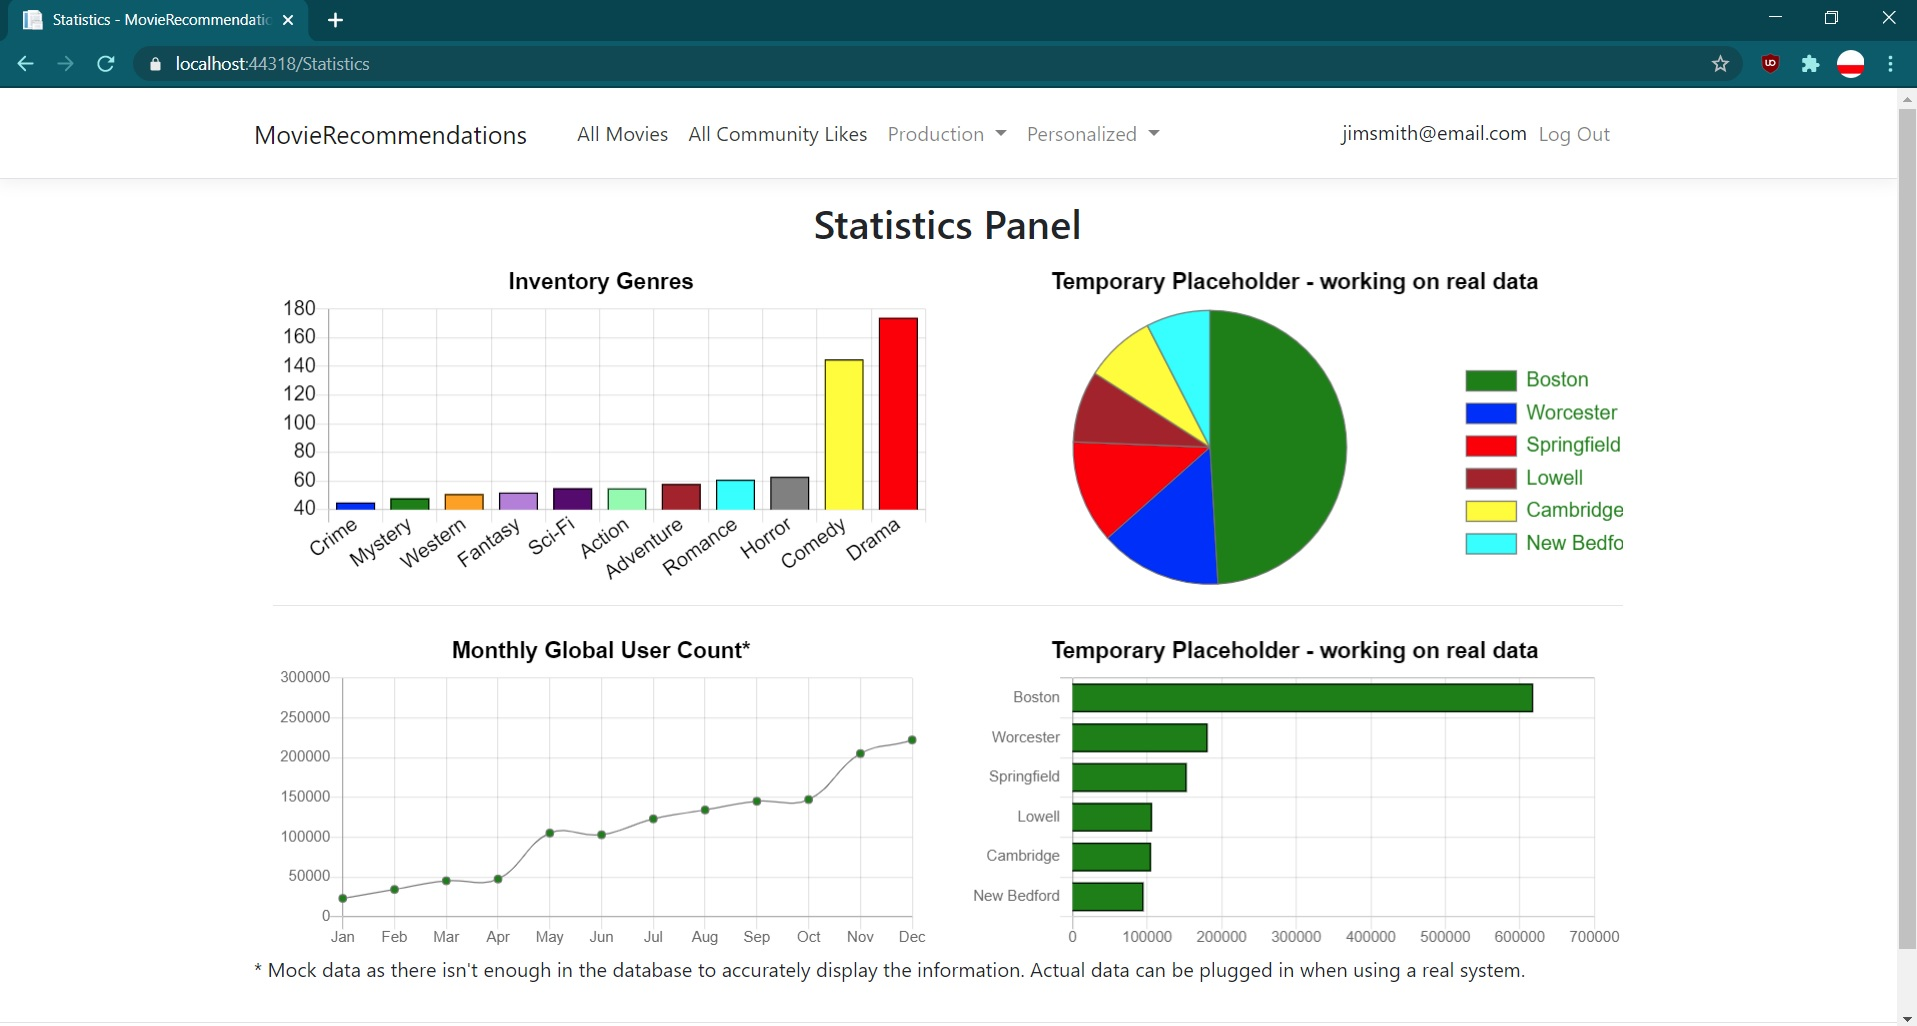
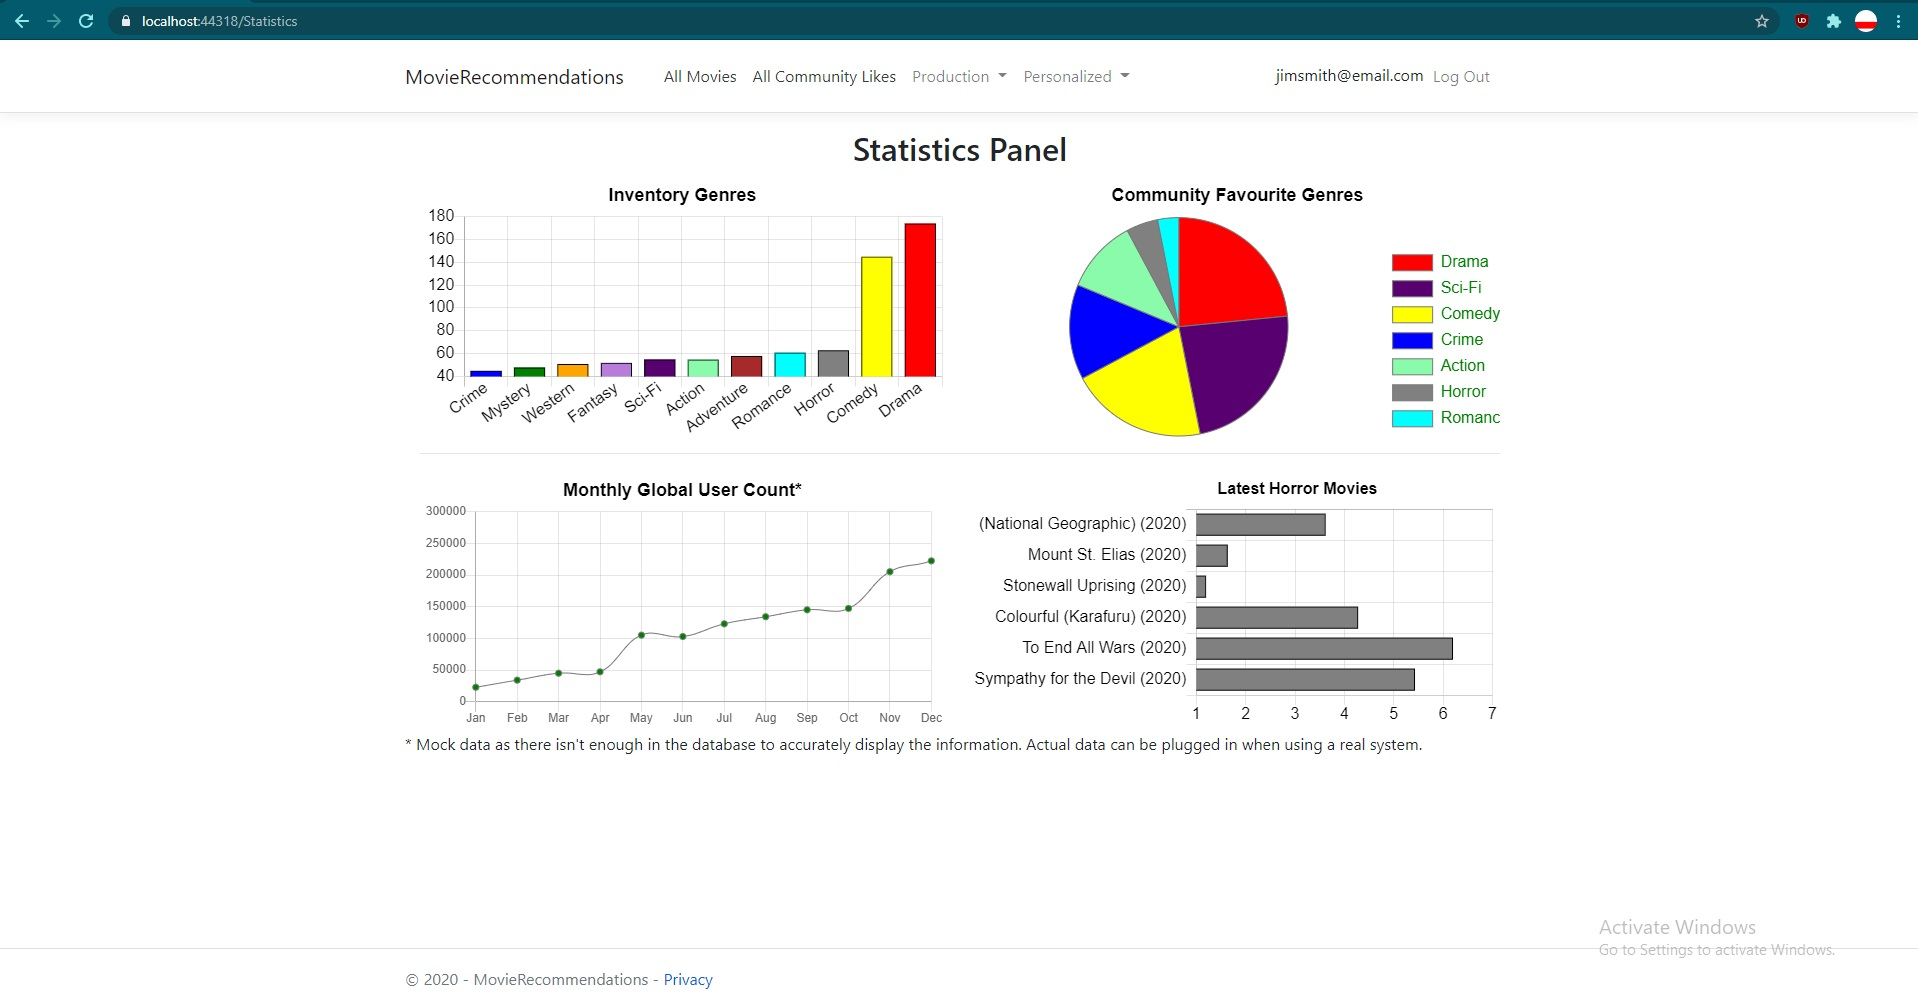
Add Latest Horror Movie Ratings Panel

diff --git a/MovieRecommendations/MovieRecommendations/wwwroot/js/StatisticsPanel4.js b/MovieRecommendations/MovieRecommendations/wwwroot/js/StatisticsPanel4.js
@@ -1,51 +1,68 @@
 console.log('p1 hi, this is the bot right chart');
 
-let chart4 = document.getElementById('chart4').getContext('2d');
+var horrorLabels = [];
+var horrorRatings = [];
+var genreColor = "gray";
 
-let botRightChart = new Chart(chart4, {
-    type: 'horizontalBar', // bar, horizontalBar, pie, line, doughnut, radar, polarArea
-    data: {
-        labels: ['Boston', 'Worcester', 'Springfield', 'Lowell', 'Cambridge', 'New Bedford'],
-        datasets: [{
-            label: 'Population',
-            data: [
-                617594,
-                181045,
-                153060,
-                106519,
-                105162,
-                95072
-            ],
-            backgroundColor: 'green',
-            borderWidth: 1,
-            borderColor: '#000',
-            hoverBorderWidth: 2,
-            hoverBorderColor: '#000'
-        }]
-    },
-    options: {
-        title: {
-            display: true,
-            text: 'Temporary Placeholder - working on real data', // Inventory Freshness By Genre: Drama
-            fontSize: 18
-        },
-        legend: {
-            display: false, // or true to show, makes more sense in pie charts
-            position: 'right', // top, bottom, left, right
-            labels: {
-                fontColor: 'green'
-            }
-        },
-        layout: {
-            padding: {
-                left: 0,
-                right: 0,
-                bottom: 0,
-                top: 0
-            }
-        },
-        tooltips: {
-            enabled: true // true, false for on and off
+getLatestHorrorMovies();
+
+async function getLatestHorrorMovies() {
+
+    let URL = `https://localhost:44311/api/statistics/inventory/horror`;
+    await $.getJSON(URL, function (data) {
+        for (var i = 0; i < data.length; i++) {
+            let item = data[i];
+            horrorLabels.push(item.title + " (" + item.releaseYear + ")");
+            horrorRatings.push(item.rating);
         }
-    }
-})
+    })
+    refreshPanelHorror();
+}
+
+let botRightChart;
+
+function refreshPanelHorror() {
+
+    let chart4 = document.getElementById('chart4').getContext('2d');
+
+    let botRightChart = new Chart(chart4, {
+        type: 'horizontalBar', // bar, horizontalBar, pie, line, doughnut, radar, polarArea
+        data: {
+            labels: horrorLabels,
+            datasets: [{
+                label: 'Latest Horror Movies',
+                data: horrorRatings,
+                backgroundColor: genreColor,
+                borderWidth: 1,
+                borderColor: '#000',
+                hoverBorderWidth: 2,
+                hoverBorderColor: '#000'
+            }]
+        },
+        options: {
+            title: {
+                display: true,
+                text: 'Latest Horror Movies', 
+                fontSize: 16
+            },
+            legend: {
+                display: false, // or true to show, makes more sense in pie charts
+                position: 'right', // top, bottom, left, right
+                labels: {
+                    fontColor: 'green'
+                }
+            },
+            layout: {
+                padding: {
+                    left: 120,
+                    right: 0,
+                    bottom: 0,
+                    top: 0
+                }
+            },
+            tooltips: {
+                enabled: true // true, false for on and off
+            }
+        }
+    })
+}

diff --git a/MovieRecommendations/MovieRecommendationsAPI/Controllers/StatisticsController.cs b/MovieRecommendations/MovieRecommendationsAPI/Controllers/StatisticsController.cs
@@ -100,5 +100,15 @@ namespace MovieRecommendationsAPI.Controllers
             return Ok(result);
         }
 
+        // GET api/<StatisticsController>/community
+        [HttpGet("inventory/horror")]
+        [EnableCors("AllowAnyOrigin")]
+        public IActionResult GetLatestHorrorMovies()
+        {
+            int chartSize = 6;
+            List<Movie> latestHorrorMovies = _repository.GetLatestHorrorMovies(chartSize);
+            return Ok(latestHorrorMovies);
+        }
+
     }
 }

diff --git a/MovieRecommendations/MoviesDataAccessLibrary/Models/SQLRepository.cs b/MovieRecommendations/MoviesDataAccessLibrary/Models/SQLRepository.cs
@@ -252,5 +252,10 @@ namespace MoviesDataAccessLibrary.Models
                          select new CommunityGenreScoreDTO { GenreName = movie.MainGenre, Score = communityLike.Score, Color = "Default" };
             return result.ToList();
         }
+
+        public List<Movie> GetLatestHorrorMovies(int chartSize)
+        {
+            return _context.Movies.Where(m => m.MainGenre == "Horror").OrderByDescending(m => m.ReleaseYear).Take(chartSize).ToList();
+        }
     }
 }

diff --git a/MovieRecommendations/MoviesDataAccessLibrary/Models/IRepository.cs b/MovieRecommendations/MoviesDataAccessLibrary/Models/IRepository.cs
@@ -36,5 +36,6 @@ namespace MoviesDataAccessLibrary.Models
         public List<PartyMember> GetPartyMembersForParty(int partyId);
         public List<GenreCountDTO> GetGenreCount();
         public List<CommunityGenreScoreDTO> GetCommunityGenresScore();
+        public List<Movie> GetLatestHorrorMovies(int chartSize);
     }
 }
